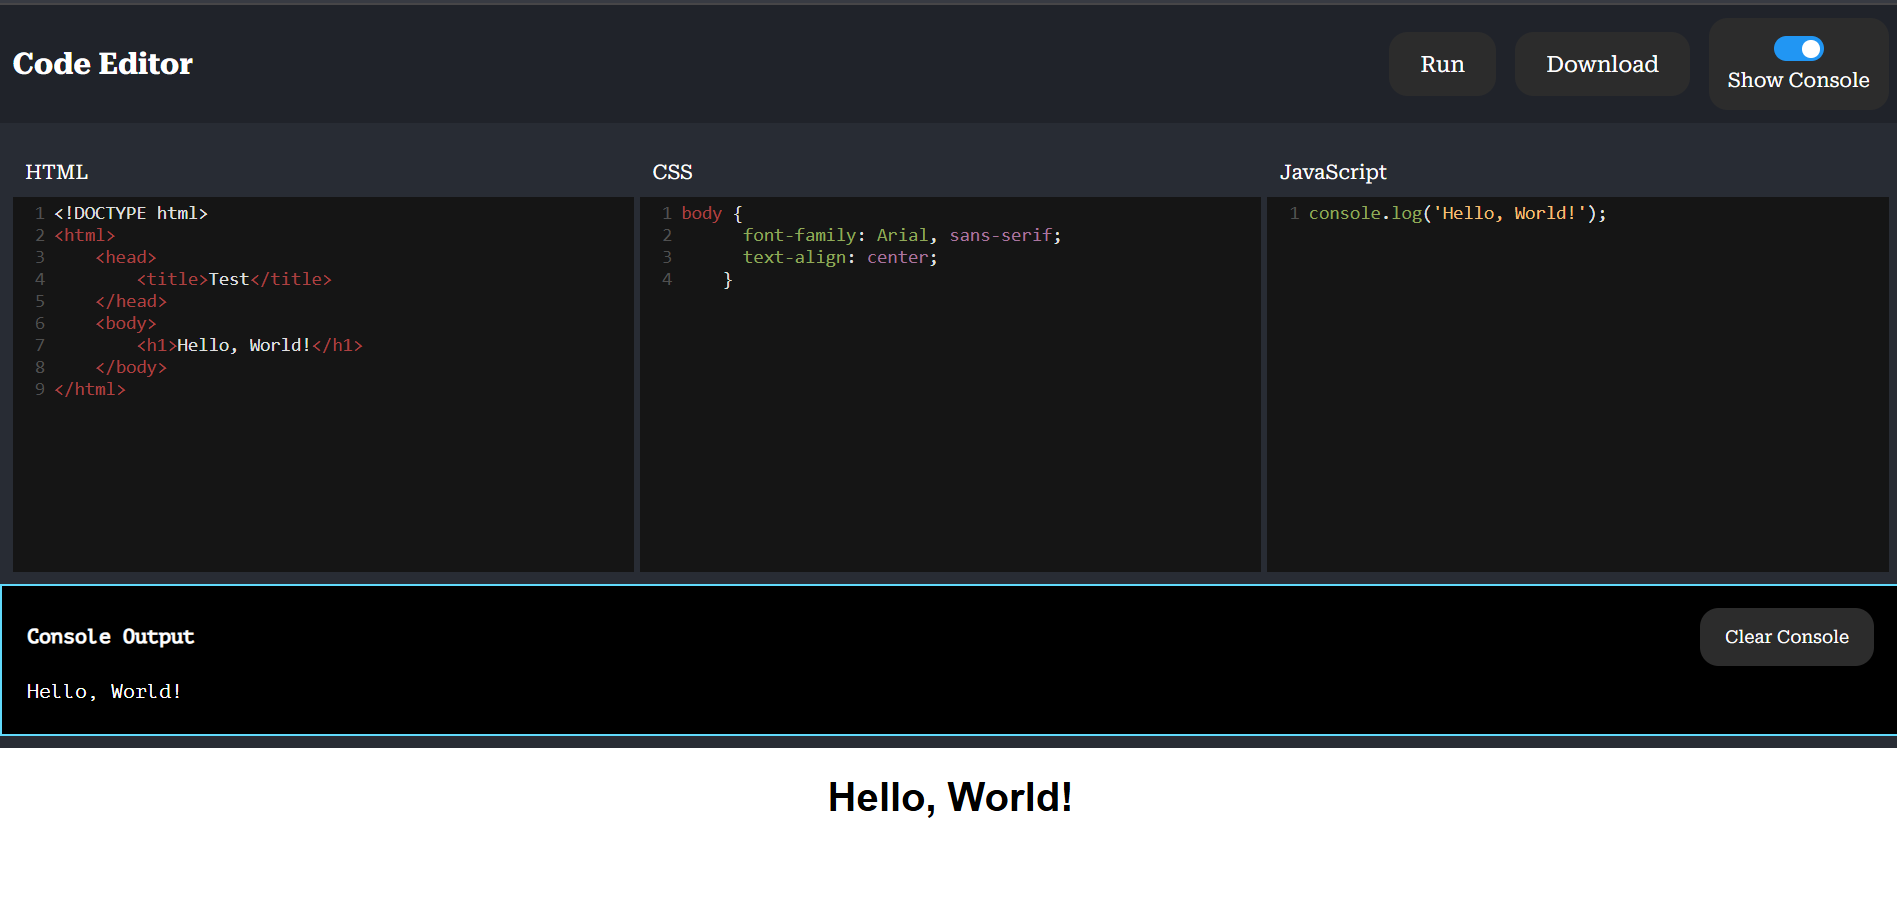
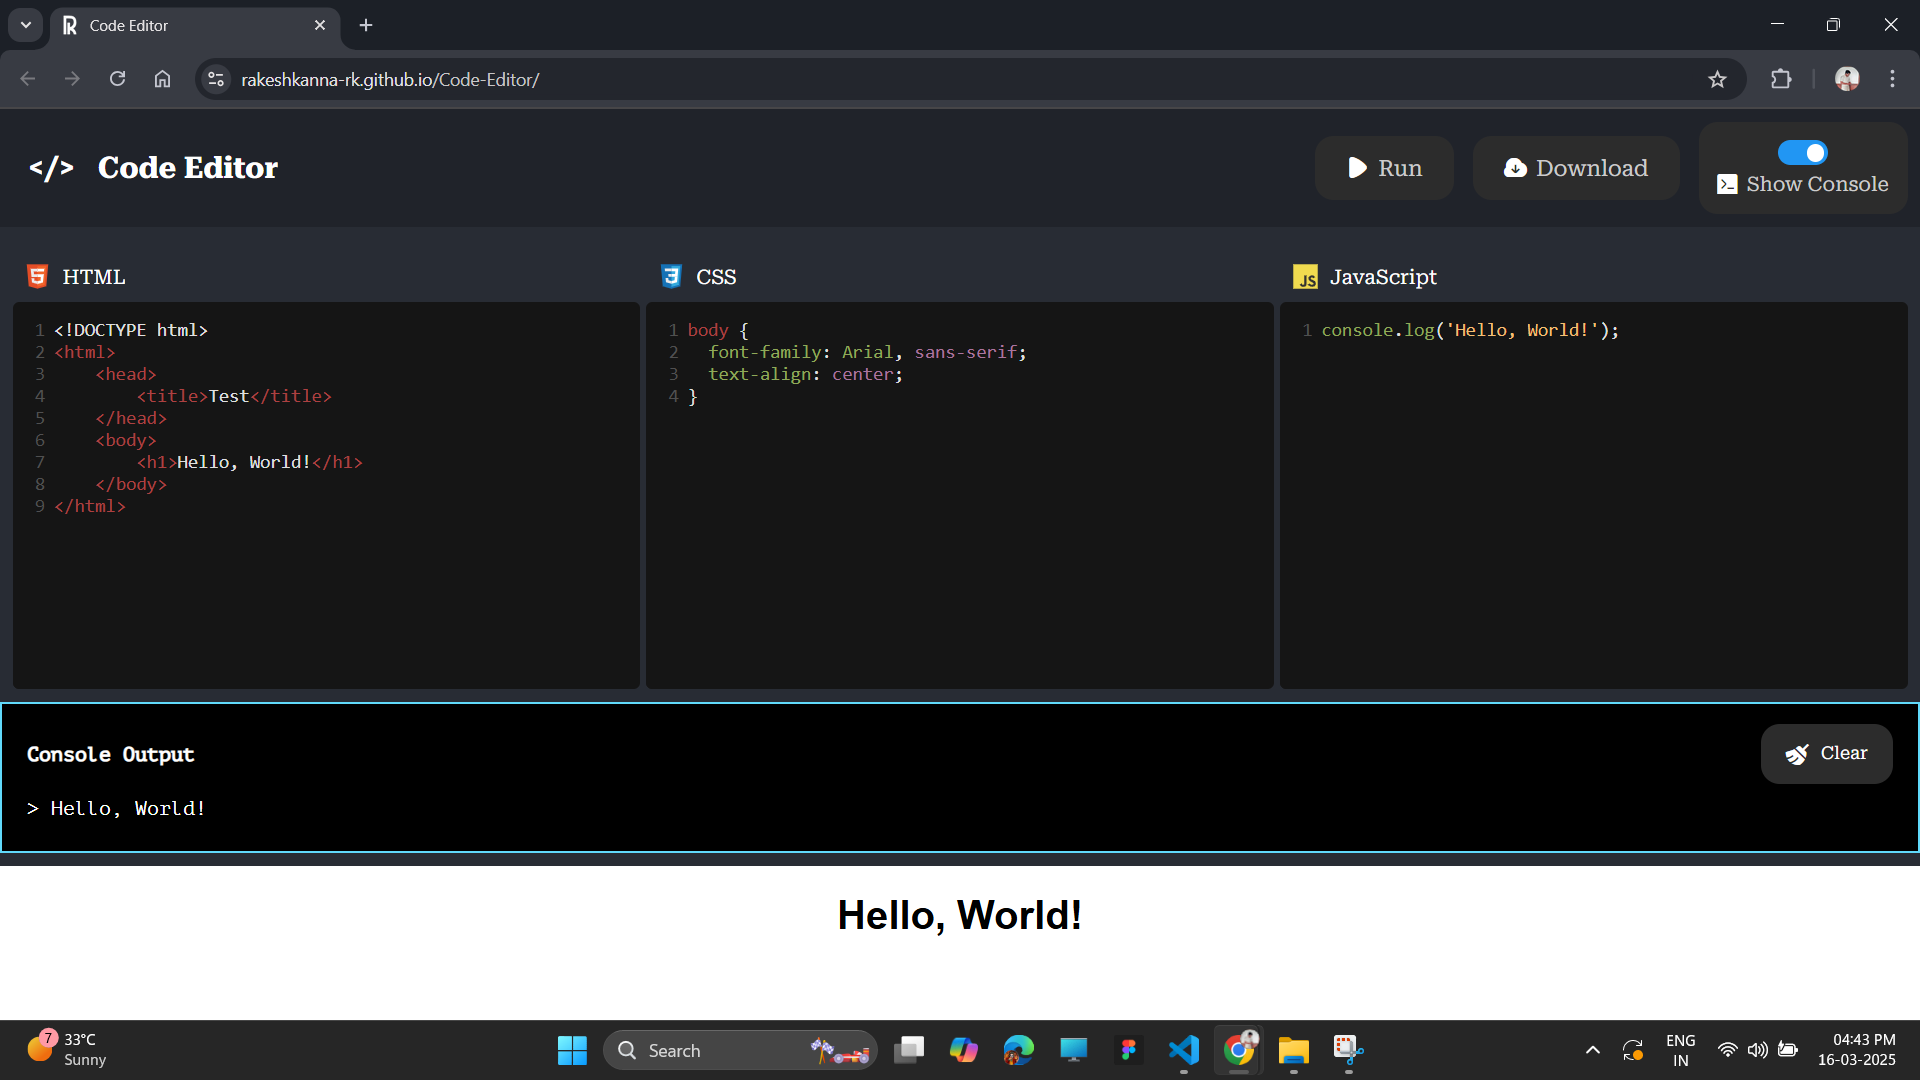
added features

diff --git a/index.html b/index.html
@@ -13,8 +13,14 @@
     <script src="script_id_010806.js"></script>
 
     <!-- FLATICON PACK -->
-    <link rel='stylesheet' href='https://cdn-uicons.flaticon.com/2.6.0/uicons-solid-chubby/css/uicons-solid-chubby.css'>
-    <link rel='stylesheet' href='https://cdn-uicons.flaticon.com/2.6.0/uicons-solid-straight/css/uicons-solid-straight.css'>
+    <link
+      rel="stylesheet"
+      href="https://cdn-uicons.flaticon.com/2.6.0/uicons-solid-chubby/css/uicons-solid-chubby.css"
+    />
+    <link
+      rel="stylesheet"
+      href="https://cdn-uicons.flaticon.com/2.6.0/uicons-solid-straight/css/uicons-solid-straight.css"
+    />
 
     <!-- SEO -->
     <meta
@@ -53,10 +59,27 @@
       rel="stylesheet"
       href="https://cdnjs.cloudflare.com/ajax/libs/codemirror/5.63.1/theme/base16-dark.min.css"
     />
+    <link
+      rel="stylesheet"
+      href="https://cdnjs.cloudflare.com/ajax/libs/codemirror/5.65.12/addon/fold/foldgutter.css"
+    />
+
     <script src="https://cdnjs.cloudflare.com/ajax/libs/codemirror/5.63.1/codemirror.min.js"></script>
     <script src="https://cdnjs.cloudflare.com/ajax/libs/codemirror/5.63.1/mode/xml/xml.min.js"></script>
     <script src="https://cdnjs.cloudflare.com/ajax/libs/codemirror/5.63.1/mode/css/css.min.js"></script>
     <script src="https://cdnjs.cloudflare.com/ajax/libs/codemirror/5.63.1/mode/javascript/javascript.min.js"></script>
+
+    <script src="https://cdnjs.cloudflare.com/ajax/libs/codemirror/5.65.12/addon/fold/foldcode.js"></script>
+    <script src="https://cdnjs.cloudflare.com/ajax/libs/codemirror/5.65.12/addon/fold/foldgutter.js"></script>
+    <script src="https://cdnjs.cloudflare.com/ajax/libs/codemirror/5.65.12/addon/fold/brace-fold.js"></script>
+    <script src="https://cdnjs.cloudflare.com/ajax/libs/codemirror/5.65.12/addon/fold/xml-fold.js"></script>
+    <script src="https://cdnjs.cloudflare.com/ajax/libs/codemirror/5.65.12/addon/fold/indent-fold.js"></script>
+    <script src="https://cdnjs.cloudflare.com/ajax/libs/codemirror/5.65.12/addon/fold/comment-fold.js"></script>
+    <!-- Auto Close Brackets -->
+    <script src="https://cdnjs.cloudflare.com/ajax/libs/codemirror/5.65.12/addon/edit/closebrackets.js"></script>
+
+    <!-- Auto Close Tags -->
+    <script src="https://cdnjs.cloudflare.com/ajax/libs/codemirror/5.65.12/addon/edit/closetag.js"></script>
   </head>
   <body>
     <!-- Overlay -->
@@ -89,8 +112,10 @@
           <h1>&nbsp; &lt;/&gt; &nbsp; Code Editor</h1>
         </div>
         <div class="buttons">
-          <button onclick="runCode()"> <i class="fi fi-sc-play"></i> Run</button>
-          <button onclick="downloadCode()"> <i class="fi fi-ss-cloud-download-alt"></i> Download</button>
+          <button onclick="runCode()"><i class="fi fi-sc-play"></i> Run</button>
+          <button onclick="downloadCode()">
+            <i class="fi fi-ss-cloud-download-alt"></i> Download
+          </button>
           <div class="console-toggle">
             <label class="switch">
               <input
@@ -100,7 +125,9 @@
               />
               <span class="slider"></span>
             </label>
-            <label for="consoleToggle"> <i class="fi fi-ss-square-terminal"></i> Show Console</label>
+            <label for="consoleToggle">
+              <i class="fi fi-ss-square-terminal"></i> Show Console</label
+            >
           </div>
         </div>
       </div>
@@ -109,15 +136,23 @@
     <!-- EDITOR -->
     <div class="editor-container">
       <div class="editor-wrapper">
-        <label for="html"> <img src="img_id_010806/html5-original.svg" alt="html-img" /> HTML</label>
+        <label for="html">
+          <img src="img_id_010806/html5-original.svg" alt="html-img" />
+          HTML</label
+        >
         <textarea id="html" class="editor"></textarea>
       </div>
       <div class="editor-wrapper">
-        <label for="css"> <img src="img_id_010806/css3-original.svg" alt="css-img" /> CSS</label>
+        <label for="css">
+          <img src="img_id_010806/css3-original.svg" alt="css-img" /> CSS</label
+        >
         <textarea id="css" class="editor"></textarea>
       </div>
       <div class="editor-wrapper">
-        <label for="js"> <img src="img_id_010806/javascript-original.svg" alt="js-img" /> JavaScript</label>
+        <label for="js">
+          <img src="img_id_010806/javascript-original.svg" alt="js-img" />
+          JavaScript</label
+        >
         <textarea id="js" class="editor"></textarea>
       </div>
     </div>

diff --git a/script_id_010806.js b/script_id_010806.js
@@ -4,28 +4,41 @@ document.addEventListener("DOMContentLoaded", function () {
     lineNumbers: true,
     theme: "base16-dark",
     autoCloseTags: true,
+    autoCloseBrackets: true,
+    foldGutter: true,
+    gutters: ["CodeMirror-linenumbers", "CodeMirror-foldgutter"],
+    indentWithTabs: true,
+    smartIndent: true,
   });
   var cssEditor = CodeMirror.fromTextArea(document.getElementById("css"), {
     mode: "css",
     lineNumbers: true,
     theme: "base16-dark",
+    foldGutter: true,
+    autoCloseBrackets: true,
+    gutters: ["CodeMirror-linenumbers", "CodeMirror-foldgutter"],
+    indentWithTabs: true,
+    smartIndent: true,
   });
   var jsEditor = CodeMirror.fromTextArea(document.getElementById("js"), {
     mode: "javascript",
     lineNumbers: true,
     theme: "base16-dark",
+    foldGutter: true,
+    gutters: ["CodeMirror-linenumbers", "CodeMirror-foldgutter"],
+    autoCloseBrackets: true,
+    indentWithTabs: true,
+    smartIndent: true,
   });
 
   // Prefilled Code
-  htmlEditor.setValue(`<!DOCTYPE html>
-<html>
-    <head>
-        <title>Test</title>
-    </head>
-    <body>
-        <h1>Hello, World!</h1>
-    </body>
-</html>`);
+  htmlEditor.setValue(`<head>
+  <title>Test</title>
+</head>
+<body>
+  <h1>Hello, World!</h1>
+</body>
+`);
 
   cssEditor.setValue(`body {
   font-family: Arial, sans-serif;
@@ -93,12 +106,17 @@ document.addEventListener("DOMContentLoaded", function () {
     var jsCode = jsEditor.getValue();
     var blob = new Blob(
       [
+        "<!DOCTYPE html>\n",
+        "<html>\n",
         htmlCode,
         "\n<style>\n",
         cssCode,
         "\n</style>\n<script>\n",
         jsCode,
         "\n</script>",
+        "\n<!-- Code Editor by Rakesh Kanna S -->",
+        "\n<!-- https://rakeshkanna-rk.github.io/Code-Editor/ -->",
+        "\n</html>",
       ],
       { type: "text/html" }
     );
@@ -126,9 +144,11 @@ function closeOverlay() {
   document.getElementById("dev-overlay").classList.add("hidden");
 }
 
- // Mobile Alert 
-window.onload = function() {
+// Mobile Alert
+window.onload = function () {
   if (window.innerWidth < 768) {
-      alert("⚠ 𝗙𝗼𝗿 𝗮 𝗯𝗲𝘁𝘁𝗲𝗿 𝗲𝘅𝗽𝗲𝗿𝗶𝗲𝗻𝗰𝗲, 𝘂𝘀𝗲 𝗮 𝗹𝗮𝗿𝗴𝗲𝗿 𝘀𝗰𝗿𝗲𝗲𝗻.\n\nClick OK to continue.");
+    alert(
+      "⚠ 𝗙𝗼𝗿 𝗮 𝗯𝗲𝘁𝘁𝗲𝗿 𝗲𝘅𝗽𝗲𝗿𝗶𝗲𝗻𝗰𝗲, 𝘂𝘀𝗲 𝗮 𝗹𝗮𝗿𝗴𝗲𝗿 𝘀𝗰𝗿𝗲𝗲𝗻.\n\nClick OK to continue."
+    );
   }
 };
